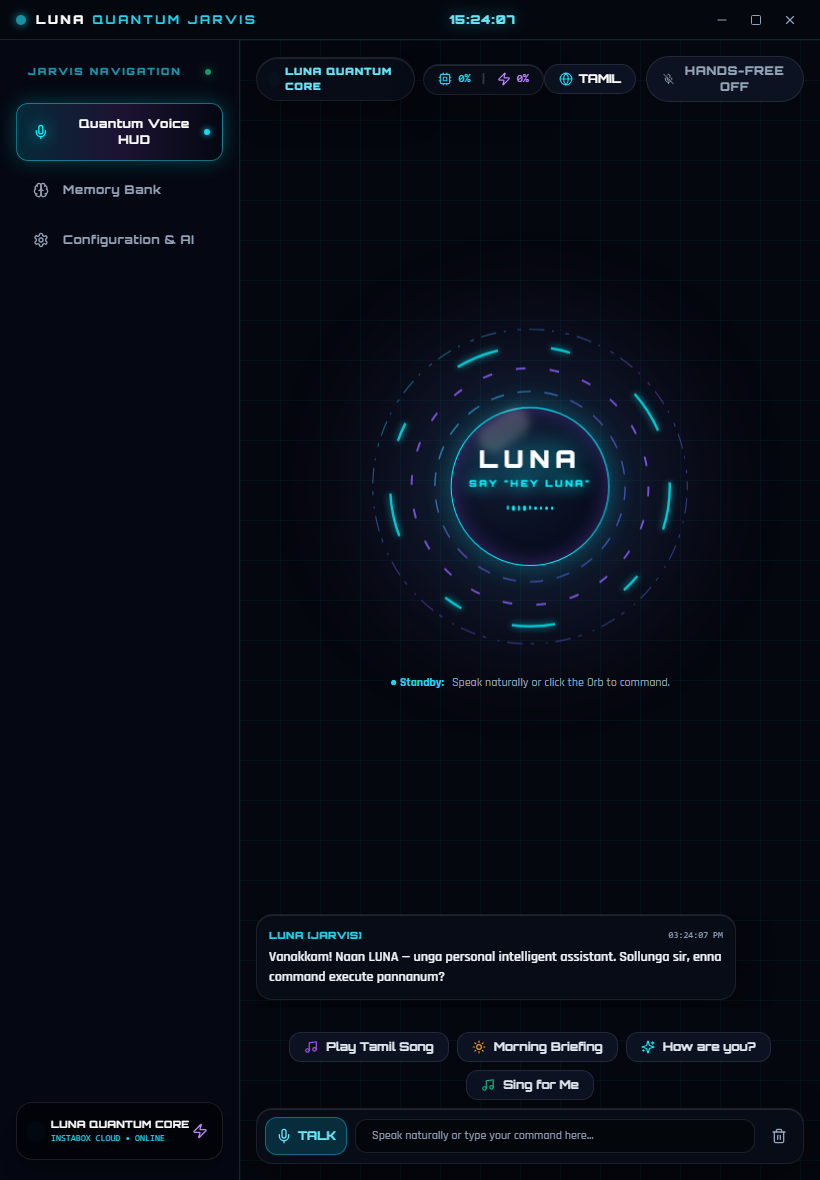
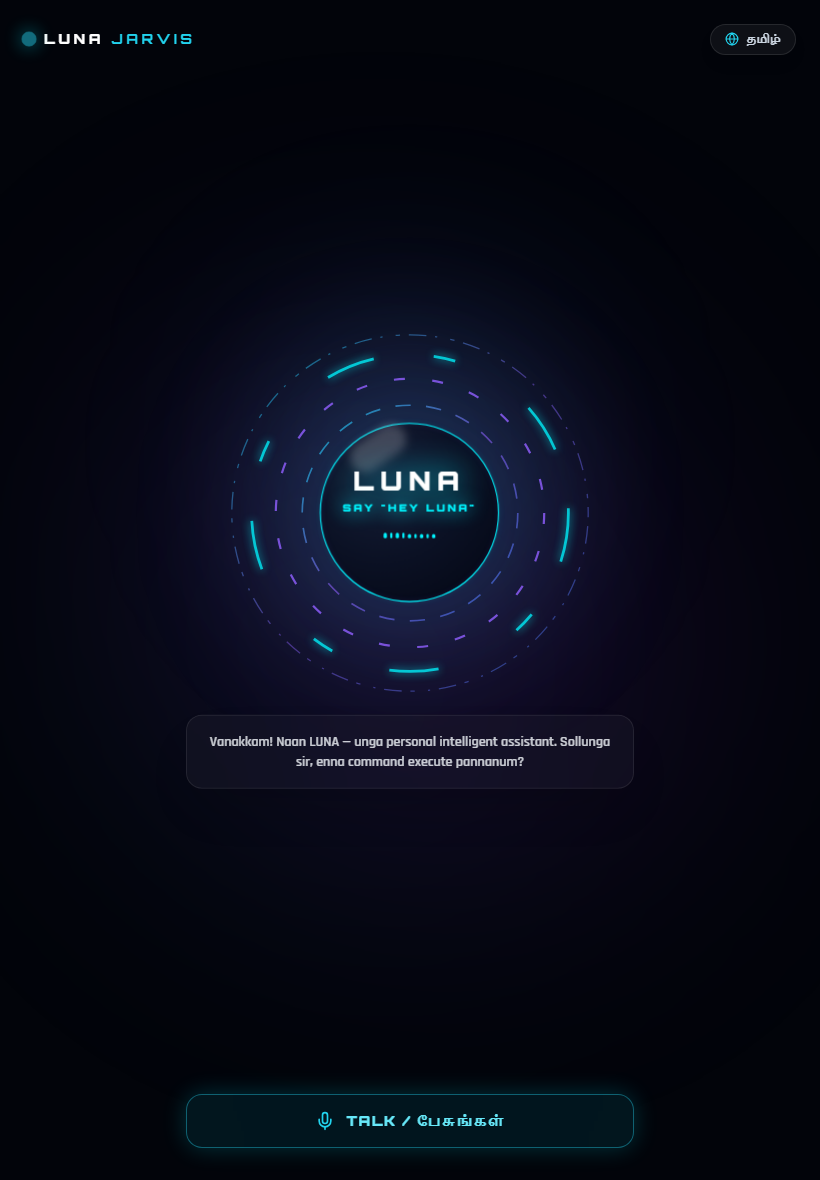
feat: enable continuous hands-free voice duplex loop and fix Groq Whisper language handling

diff --git a/apps/desktop/src/views/HomeView.tsx b/apps/desktop/src/views/HomeView.tsx
@@ -1,6 +1,6 @@
-import React, { useEffect, useState, useRef } from 'react';
+import React, { useEffect, useState } from 'react';
 import { motion, AnimatePresence } from 'framer-motion';
-import { Mic, Globe, Sparkles, Volume2 } from 'lucide-react';
+import { Mic, Globe, Sparkles, Volume2, MicOff, Radio } from 'lucide-react';
 import { LunaOrb } from '../components/LunaOrb';
 import { useLunaStore } from '../store/useLunaStore';
 import { speechEngine } from '../services/speech';
@@ -17,45 +17,61 @@ export const HomeView: React.FC = () => {
 
   const [liveTranscript, setLiveTranscript] = useState('');
   const [liveVolume, setLiveVolume] = useState(0);
-  const [isRecording, setIsRecording] = useState(false);
+  const [isHandsFreeActive, setIsHandsFreeActive] = useState(false);
+  const [isHearingSpeech, setIsHearingSpeech] = useState(false);
 
   useEffect(() => {
-    // 1. When voice transcription is complete, auto-submit to AI Brain
-    speechEngine.setAutoSubmitCallback((query: string) => {
+    // 1. Auto-submit transcribed query to AI Brain
+    speechEngine.setAutoSubmitCallback(async (query: string) => {
       setLiveTranscript(`"${query}"`);
-      sendMessage(query);
-      setIsRecording(false);
+      setIsHearingSpeech(false);
+      await sendMessage(query);
+      // After assistant finishes speaking, reset transcript
+      setLiveTranscript('');
     });
 
-    // 2. Transcription and state progress
+    // 2. Live speech feedback & status updates
     speechEngine.setSpeechCallback((text: string, isFinal: boolean) => {
       setLiveTranscript(text);
-      if (text) {
+      if (text && !isFinal) {
+        setIsHearingSpeech(true);
         setAssistantState('listening');
-      } else {
-        setAssistantState('idle');
+      } else if (isFinal) {
+        setIsHearingSpeech(false);
       }
     });
 
-    // 3. Audio volume visualizer
+    // 3. Audio volume visualizer for the Orb
     speechEngine.setVolumeCallback((vol: number) => {
       setLiveVolume(vol);
     });
 
     return () => {
+      speechEngine.stopContinuousAutoListen();
       speechEngine.stopSpeaking();
     };
   }, [sendMessage, setAssistantState]);
 
-  const handleToggleVoice = async () => {
-    const recordingNow = await speechEngine.toggleManualRecord();
-    setIsRecording(recordingNow);
-    if (recordingNow) {
-      setAssistantState('listening');
-      setLiveTranscript('🎙 Listening... பேசுங்கள்...');
-    } else {
-      setAssistantState('idle');
+  // Toggle continuous hands-free duplex voice mode
+  const handleToggleHandsFree = async () => {
+    if (isHandsFreeActive) {
+      speechEngine.stopContinuousAutoListen();
+      setIsHandsFreeActive(false);
+      setIsHearingSpeech(false);
       setLiveTranscript('');
+      setAssistantState('idle');
+    } else {
+      await speechEngine.startContinuousAutoListen();
+      setIsHandsFreeActive(true);
+      setLiveTranscript('');
+    }
+  };
+
+  // If user taps screen background while idle and not active, start hands-free
+  const handleContainerTap = async (e: React.MouseEvent) => {
+    if (!isHandsFreeActive) {
+      await speechEngine.startContinuousAutoListen();
+      setIsHandsFreeActive(true);
     }
   };
 
@@ -63,7 +79,10 @@ export const HomeView: React.FC = () => {
   const lastAssistantMsg = [...messages].reverse().find((m) => m.role === 'assistant');
 
   return (
-    <div className="flex-1 flex flex-col h-full w-full bg-[#02040a] relative overflow-hidden select-none justify-between items-center py-6 px-4">
+    <div
+      onClick={handleContainerTap}
+      className="flex-1 flex flex-col h-full w-full bg-[#02040a] relative overflow-hidden select-none justify-between items-center py-6 px-4 cursor-pointer"
+    >
       {/* 1. Deep Space Ambient Nebula Glow */}
       <div className="absolute inset-0 pointer-events-none overflow-hidden">
         <div className="absolute top-1/2 left-1/2 -translate-x-1/2 -translate-y-1/2 w-[600px] h-[600px] bg-gradient-to-tr from-cyan-500/10 via-purple-600/15 to-transparent rounded-full blur-[140px] pointer-events-none" />
@@ -71,19 +90,34 @@ export const HomeView: React.FC = () => {
       </div>
 
       {/* 2. Top Ultra-Clean Minimal HUD Bar */}
-      <header className="w-full max-w-4xl flex items-center justify-between z-30 px-2">
-        {/* Futuristic Brand Watermark */}
+      <header className="w-full max-w-4xl flex items-center justify-between z-30 px-2 cursor-default">
+        {/* Futuristic Brand Watermark with Live Status Dot */}
         <div className="flex items-center gap-2.5">
-          <span className="w-2.5 h-2.5 rounded-full bg-cyan-400 animate-ping shadow-[0_0_12px_#00f5ff]" />
+          <span
+            className={`w-2.5 h-2.5 rounded-full ${
+              isHandsFreeActive
+                ? 'bg-emerald-400 animate-ping shadow-[0_0_12px_#34d399]'
+                : 'bg-cyan-400 shadow-[0_0_12px_#00f5ff]'
+            }`}
+          />
           <span className="font-orbitron font-black text-sm tracking-[0.25em] text-white">
             LUNA <span className="text-cyan-400 font-semibold">JARVIS</span>
           </span>
+          {isHandsFreeActive && (
+            <span className="hidden sm:inline-flex items-center gap-1.5 px-2 py-0.5 rounded-full bg-emerald-500/15 border border-emerald-400/30 text-[10px] font-orbitron font-bold text-emerald-300">
+              <Radio className="w-2.5 h-2.5 animate-pulse text-emerald-400" />
+              HANDS-FREE DUPLEX
+            </span>
+          )}
         </div>
 
         {/* Right Subtle Language Pill */}
         <button
-          onClick={() => setLanguage(language === 'ta-IN' ? 'en-US' : 'ta-IN')}
-          className="px-3.5 py-1.5 rounded-full bg-white/5 border border-white/10 hover:border-cyan-400/50 text-[11px] font-orbitron font-bold text-slate-300 hover:text-white transition-all flex items-center gap-2 backdrop-blur-xl shadow-lg"
+          onClick={(e) => {
+            e.stopPropagation();
+            setLanguage(language === 'ta-IN' ? 'en-US' : 'ta-IN');
+          }}
+          className="px-3.5 py-1.5 rounded-full bg-white/5 border border-white/10 hover:border-cyan-400/50 text-[11px] font-orbitron font-bold text-slate-300 hover:text-white transition-all flex items-center gap-2 backdrop-blur-xl shadow-lg cursor-pointer"
         >
           <Globe className="w-3.5 h-3.5 text-cyan-400" />
           <span>{language === 'ta-IN' ? 'தமிழ்' : 'ENGLISH'}</span>
@@ -92,16 +126,21 @@ export const HomeView: React.FC = () => {
 
       {/* 3. Pure Cinematic Center Stage: The Majestic Quantum Orb */}
       <main className="flex-1 flex flex-col items-center justify-center w-full z-20 my-auto relative">
-        <div className="relative flex items-center justify-center scale-90 sm:scale-100 md:scale-110 transition-transform">
+        <div
+          onClick={(e) => {
+            e.stopPropagation();
+            handleToggleHandsFree();
+          }}
+          className="relative flex items-center justify-center scale-90 sm:scale-100 md:scale-110 transition-transform cursor-pointer"
+        >
           <LunaOrb
             state={assistantState}
             size={340}
             liveVolume={liveVolume}
-            onClick={handleToggleVoice}
           />
         </div>
 
-        {/* 4. Elegant Floating Voice Subtitles & State Banner */}
+        {/* 4. Elegant Floating Voice Subtitles & Realtime State Banner */}
         <div className="mt-8 w-full max-w-lg px-4 flex flex-col items-center min-h-[90px]">
           <AnimatePresence mode="wait">
             {liveTranscript ? (
@@ -110,7 +149,7 @@ export const HomeView: React.FC = () => {
                 initial={{ opacity: 0, y: 10, scale: 0.95 }}
                 animate={{ opacity: 1, y: 0, scale: 1 }}
                 exit={{ opacity: 0, y: -10, scale: 0.95 }}
-                className="px-6 py-2.5 rounded-full bg-cyan-950/40 border border-cyan-400/40 backdrop-blur-2xl shadow-[0_0_30px_rgba(0,245,255,0.3)] flex items-center gap-3 text-cyan-200 text-xs font-orbitron font-bold tracking-wider text-center"
+                className="px-6 py-2.5 rounded-full bg-cyan-950/50 border border-cyan-400/50 backdrop-blur-2xl shadow-[0_0_30px_rgba(0,245,255,0.3)] flex items-center gap-3 text-cyan-200 text-xs font-orbitron font-bold tracking-wider text-center"
               >
                 <div className="flex items-center gap-1">
                   <span className="w-1.5 h-3 bg-cyan-400 rounded-full animate-bounce" />
@@ -125,10 +164,10 @@ export const HomeView: React.FC = () => {
                 initial={{ opacity: 0, y: 10 }}
                 animate={{ opacity: 1, y: 0 }}
                 exit={{ opacity: 0 }}
-                className="px-6 py-2.5 rounded-full bg-purple-950/40 border border-purple-400/50 backdrop-blur-2xl shadow-[0_0_30px_rgba(168,85,247,0.35)] flex items-center gap-3 text-purple-200 text-xs font-orbitron font-extrabold tracking-wider"
+                className="px-6 py-2.5 rounded-full bg-purple-950/50 border border-purple-400/50 backdrop-blur-2xl shadow-[0_0_30px_rgba(168,85,247,0.35)] flex items-center gap-3 text-purple-200 text-xs font-orbitron font-extrabold tracking-wider"
               >
                 <Volume2 className="w-4 h-4 text-purple-400 animate-pulse" />
-                <span>LUNA SPEAKING...</span>
+                <span>LUNA SPEAKING... / லூனா பேசுகிறது...</span>
               </motion.div>
             ) : assistantState === 'thinking' || assistantState === 'processing' ? (
               <motion.div
@@ -136,10 +175,32 @@ export const HomeView: React.FC = () => {
                 initial={{ opacity: 0, y: 10 }}
                 animate={{ opacity: 1, y: 0 }}
                 exit={{ opacity: 0 }}
-                className="px-6 py-2.5 rounded-full bg-purple-950/40 border border-purple-400/40 backdrop-blur-2xl shadow-[0_0_25px_rgba(168,85,247,0.3)] flex items-center gap-2 text-purple-300 text-xs font-orbitron font-bold"
+                className="px-6 py-2.5 rounded-full bg-purple-950/50 border border-purple-400/40 backdrop-blur-2xl shadow-[0_0_25px_rgba(168,85,247,0.3)] flex items-center gap-2 text-purple-300 text-xs font-orbitron font-bold"
               >
                 <Sparkles className="w-4 h-4 text-purple-400 animate-spin" />
-                <span>AI REASONING...</span>
+                <span>AI REASONING... / யோசிக்கிறேன்...</span>
+              </motion.div>
+            ) : isHandsFreeActive ? (
+              <motion.div
+                key="active-duplex"
+                initial={{ opacity: 0, scale: 0.95 }}
+                animate={{ opacity: 1, scale: 1 }}
+                className="flex flex-col items-center gap-2 text-center"
+              >
+                {lastAssistantMsg && (
+                  <div className="p-3.5 mb-2 rounded-2xl bg-white/[0.04] border border-white/10 backdrop-blur-2xl text-center max-w-md shadow-2xl">
+                    <p className="text-xs sm:text-sm font-semibold font-rajdhani text-slate-100 leading-relaxed">
+                      {lastAssistantMsg.content}
+                    </p>
+                  </div>
+                )}
+                <div className="px-5 py-2 rounded-full bg-emerald-950/30 border border-emerald-400/40 backdrop-blur-xl flex items-center gap-2.5 text-emerald-300 text-[11px] font-orbitron font-bold tracking-wider">
+                  <span className="w-2 h-2 rounded-full bg-emerald-400 animate-ping" />
+                  <span>LISTENING CONTINUOUSLY • SPEAK FREELY</span>
+                </div>
+                <p className="text-[11px] font-rajdhani text-slate-400">
+                  நீங்கள் எப்போது வேண்டுமானாலும் பேசலாம், லூனா கேட்டு பதில் அளிக்கும்
+                </p>
               </motion.div>
             ) : lastAssistantMsg ? (
               <motion.div
@@ -160,10 +221,10 @@ export const HomeView: React.FC = () => {
                 className="text-center"
               >
                 <p className="text-xs font-orbitron text-slate-400 tracking-widest uppercase">
-                  TAP ORB TO TALK
+                  TAP SCREEN OR ORB TO START HANDS-FREE
                 </p>
                 <p className="text-[11px] font-rajdhani text-slate-400 mt-1">
-                  பேச திரையைத் தொடவும் அல்லது பட்டனை அழுத்தவும்
+                  தொடர்ந்து பேச திரையைத் தொடவும் அல்லது பட்டனை அழுத்தவும்
                 </p>
               </motion.div>
             )}
@@ -171,18 +232,37 @@ export const HomeView: React.FC = () => {
         </div>
       </main>
 
-      {/* 5. Bottom Ultra-Clean Push-To-Talk Button */}
+      {/* 5. Bottom Ultra-Clean Status / Action Button */}
       <footer className="w-full max-w-md z-30 pb-2 flex flex-col items-center">
         <button
-          onClick={handleToggleVoice}
-          className={`w-full py-4 px-6 rounded-2xl font-orbitron font-extrabold text-sm tracking-widest uppercase transition-all duration-300 flex items-center justify-center gap-3 backdrop-blur-2xl ${
-            isRecording
+          onClick={(e) => {
+            e.stopPropagation();
+            handleToggleHandsFree();
+          }}
+          className={`w-full py-4 px-6 rounded-2xl font-orbitron font-extrabold text-xs sm:text-sm tracking-widest uppercase transition-all duration-300 flex items-center justify-center gap-3 backdrop-blur-2xl cursor-pointer ${
+            isHearingSpeech
               ? 'bg-rose-500 text-white shadow-[0_0_35px_rgba(244,63,94,0.6)] animate-pulse border border-rose-400'
+              : isHandsFreeActive
+              ? 'bg-emerald-500/15 hover:bg-emerald-500/25 text-emerald-300 hover:text-white border border-emerald-400/50 shadow-[0_0_25px_rgba(52,211,153,0.25)]'
               : 'bg-cyan-500/10 hover:bg-cyan-500/20 text-cyan-300 hover:text-white border border-cyan-400/40 shadow-[0_0_25px_rgba(0,245,255,0.2)] hover:shadow-[0_0_35px_rgba(0,245,255,0.4)]'
           }`}
         >
-          <Mic className={`w-5 h-5 ${isRecording ? 'animate-bounce text-white' : 'text-cyan-400'}`} />
-          <span>{isRecording ? 'LISTENING... (TAP TO STOP)' : 'TALK / பேசுங்கள்'}</span>
+          {isHearingSpeech ? (
+            <>
+              <Mic className="w-5 h-5 animate-bounce text-white" />
+              <span>HEARING YOU... / கேட்கிறேன்...</span>
+            </>
+          ) : isHandsFreeActive ? (
+            <>
+              <Radio className="w-5 h-5 text-emerald-400 animate-pulse" />
+              <span>HANDS-FREE ACTIVE • (TAP TO PAUSE)</span>
+            </>
+          ) : (
+            <>
+              <Mic className="w-5 h-5 text-cyan-400" />
+              <span>START HANDS-FREE / பேச தொடங்குங்கள்</span>
+            </>
+          )}
         </button>
       </footer>
     </div>

diff --git a/apps/desktop/src/services/speech.ts b/apps/desktop/src/services/speech.ts
@@ -328,10 +328,11 @@ export class LunaSpeechEngine {
       return;
     }
 
-    const audioBlob = new Blob(this.audioChunks, { type: 'audio/webm' });
+    const recordedMime = this.mediaRecorder?.mimeType || 'audio/webm';
+    const audioBlob = new Blob(this.audioChunks, { type: recordedMime });
     this.audioChunks = [];
 
-    // Filter out tiny accidental spikes (< 250 bytes)
+    // Filter out tiny accidental noise spikes (< 250 bytes)
     if (audioBlob.size < 250) {
       if (this.speechCallback) this.speechCallback('', true);
       return;
@@ -344,17 +345,17 @@ export class LunaSpeechEngine {
     try {
       const formData = new FormData();
       let ext = 'webm';
-      if (audioBlob.type) {
-        if (audioBlob.type.includes('mp4') || audioBlob.type.includes('m4a') || audioBlob.type.includes('aac')) {
-          ext = 'mp4';
-        } else if (audioBlob.type.includes('wav')) {
-          ext = 'wav';
-        } else if (audioBlob.type.includes('ogg')) {
-          ext = 'ogg';
-        }
+      const typeStr = (audioBlob.type || recordedMime).toLowerCase();
+      if (typeStr.includes('mp4') || typeStr.includes('m4a') || typeStr.includes('aac')) {
+        ext = 'mp4';
+      } else if (typeStr.includes('wav')) {
+        ext = 'wav';
+      } else if (typeStr.includes('ogg')) {
+        ext = 'ogg';
       }
       formData.append('file', audioBlob, `speech.${ext}`);
-      formData.append('language', 'auto');
+      const cleanLang = this.selectedLanguage?.startsWith('ta') ? 'ta' : this.selectedLanguage?.startsWith('en') ? 'en' : 'auto';
+      formData.append('language', cleanLang);
 
       const res = await fetch(`${getApiBaseUrl()}/api/voice/transcribe`, {
         method: 'POST',
@@ -366,6 +367,13 @@ export class LunaSpeechEngine {
         const text = (data.text || '').trim();
 
         if (text && text.length > 0) {
+          const lower = text.toLowerCase().replace(/[^\w\s]/g, '').trim();
+          const hallucinations = ['thank you', 'thanks for watching', 'subtitles by', 'amara', 'mbc', 'subscribe', 'you'];
+          if (hallucinations.includes(lower)) {
+            if (this.speechCallback) this.speechCallback('', true);
+            return;
+          }
+
           if (this.speechCallback) {
             this.speechCallback(text, true);
           }

diff --git a/backend/app/voice/stt.py b/backend/app/voice/stt.py
@@ -38,13 +38,21 @@ class STTEngine:
 
                 files = {"file": (f"speech.{ext}", audio_bytes, mime_type)}
                 data = {"model": model_name}
-                if language:
-                    data["language"] = language
+                if language and language.strip().lower() not in ["auto", "none", ""]:
+                    # Groq Whisper requires ISO-639-1 code (e.g. 'ta', 'en')
+                    clean_lang = language.split("-")[0].strip().lower()
+                    if clean_lang:
+                        data["language"] = clean_lang
 
                 async with httpx.AsyncClient(timeout=25.0) as client:
                     res = await client.post(url, headers=headers, files=files, data=data)
                     if res.status_code == 200:
                         text = res.json().get("text", "").strip()
+                        # Filter out known Whisper silence hallucinations
+                        clean_lower = text.lower().strip(" .!?,;")
+                        hallucinations = {"thank you", "thanks for watching", "subtitles by", "amara.org", "mbc", "subscribe", "you", "bye"}
+                        if clean_lower in hallucinations:
+                            text = ""
                         return {"text": text, "engine": f"whisper ({model_name})"}
                     else:
                         logger.error(f"Whisper transcription failed [{res.status_code}]: {res.text}")
